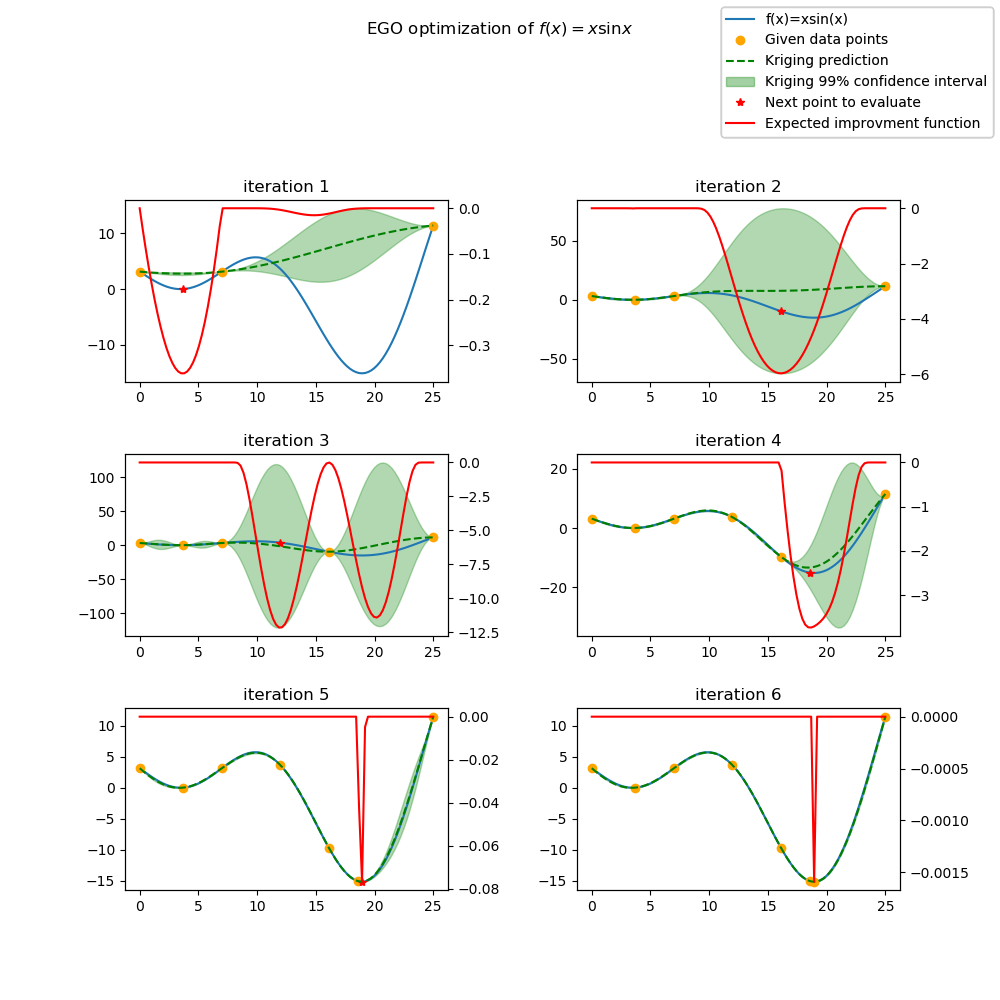
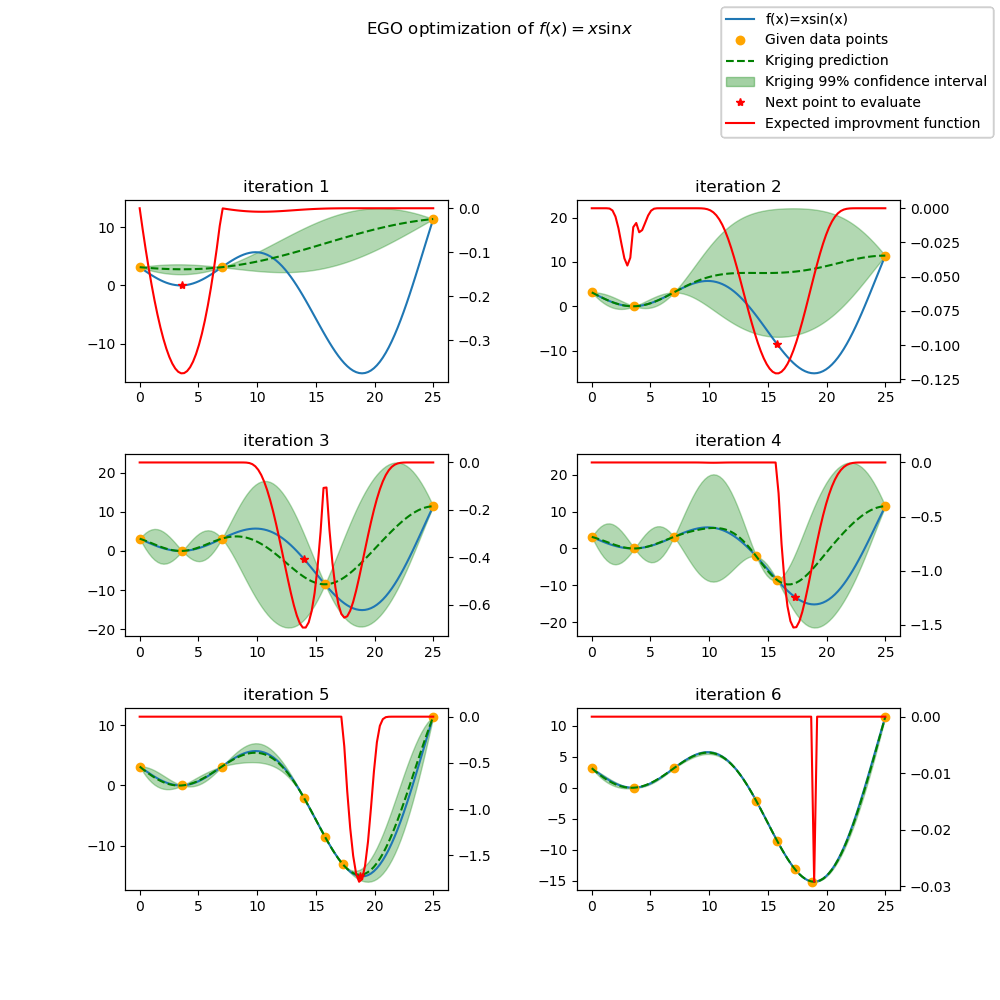
Fix use of variance where standard deviation is needed in EGO.
Fixes SMTorg/smt#189

diff --git a/smt/applications/ego.py b/smt/applications/ego.py
@@ -172,11 +172,11 @@ class EGO(SurrogateBasedApplication):
         """ Expected improvement """
         f_min = np.min(y_data)
         pred = self.gpr.predict_values(points)
-        var = self.gpr.predict_variances(points)
-        args0 = (f_min - pred) / var
+        sig = np.sqrt(self.gpr.predict_variances(points))
+        args0 = (f_min - pred) / sig
         args1 = (f_min - pred) * norm.cdf(args0)
-        args2 = var * norm.pdf(args0)
-        if var.size == 1 and var == 0.0:  # can be use only if one point is computed
+        args2 = sig * norm.pdf(args0)
+        if sig.size == 1 and sig == 0.0:  # can be use only if one point is computed
             return 0.0
 
         ei = args1 + args2
@@ -191,5 +191,5 @@ class EGO(SurrogateBasedApplication):
         """ Upper confidence bound optimization: minimize by using mu - 3*sigma """
         pred = self.gpr.predict_values(point)
         var = self.gpr.predict_variances(point)
-        res = pred - 3.0 * var
+        res = pred - 3.0 * np.sqrt(var)
         return res

diff --git a/doc/_src_docs/applications/ego.rst b/doc/_src_docs/applications/ego.rst
@@ -170,7 +170,7 @@ Usage
       ego.gpr.train()
   
       y_gp_plot = ego.gpr.predict_values(x_plot)
-      y_gp_plot_var = ego.gpr.predict_variances(x_plot)
+      y_gp_plot_sd = np.sqrt(ego.gpr.predict_variances(x_plot))
       y_ei_plot = -ego.EI(x_plot, y_data_k)
   
       ax = fig.add_subplot((n_iter + 1) // 2, 2, i + 1)
@@ -186,8 +186,8 @@ Usage
               x_data[k], y_data[k], linestyle="", marker="*", color="r"
           )
       gp, = ax.plot(x_plot, y_gp_plot, linestyle="--", color="g")
-      sig_plus = y_gp_plot + 3 * y_gp_plot_var
-      sig_moins = y_gp_plot - 3 * y_gp_plot_var
+      sig_plus = y_gp_plot + 3 * y_gp_plot_sd
+      sig_moins = y_gp_plot - 3 * y_gp_plot_sd
       un_gp = ax.fill_between(
           x_plot.T[0], sig_plus.T[0], sig_moins.T[0], alpha=0.3, color="g"
       )
